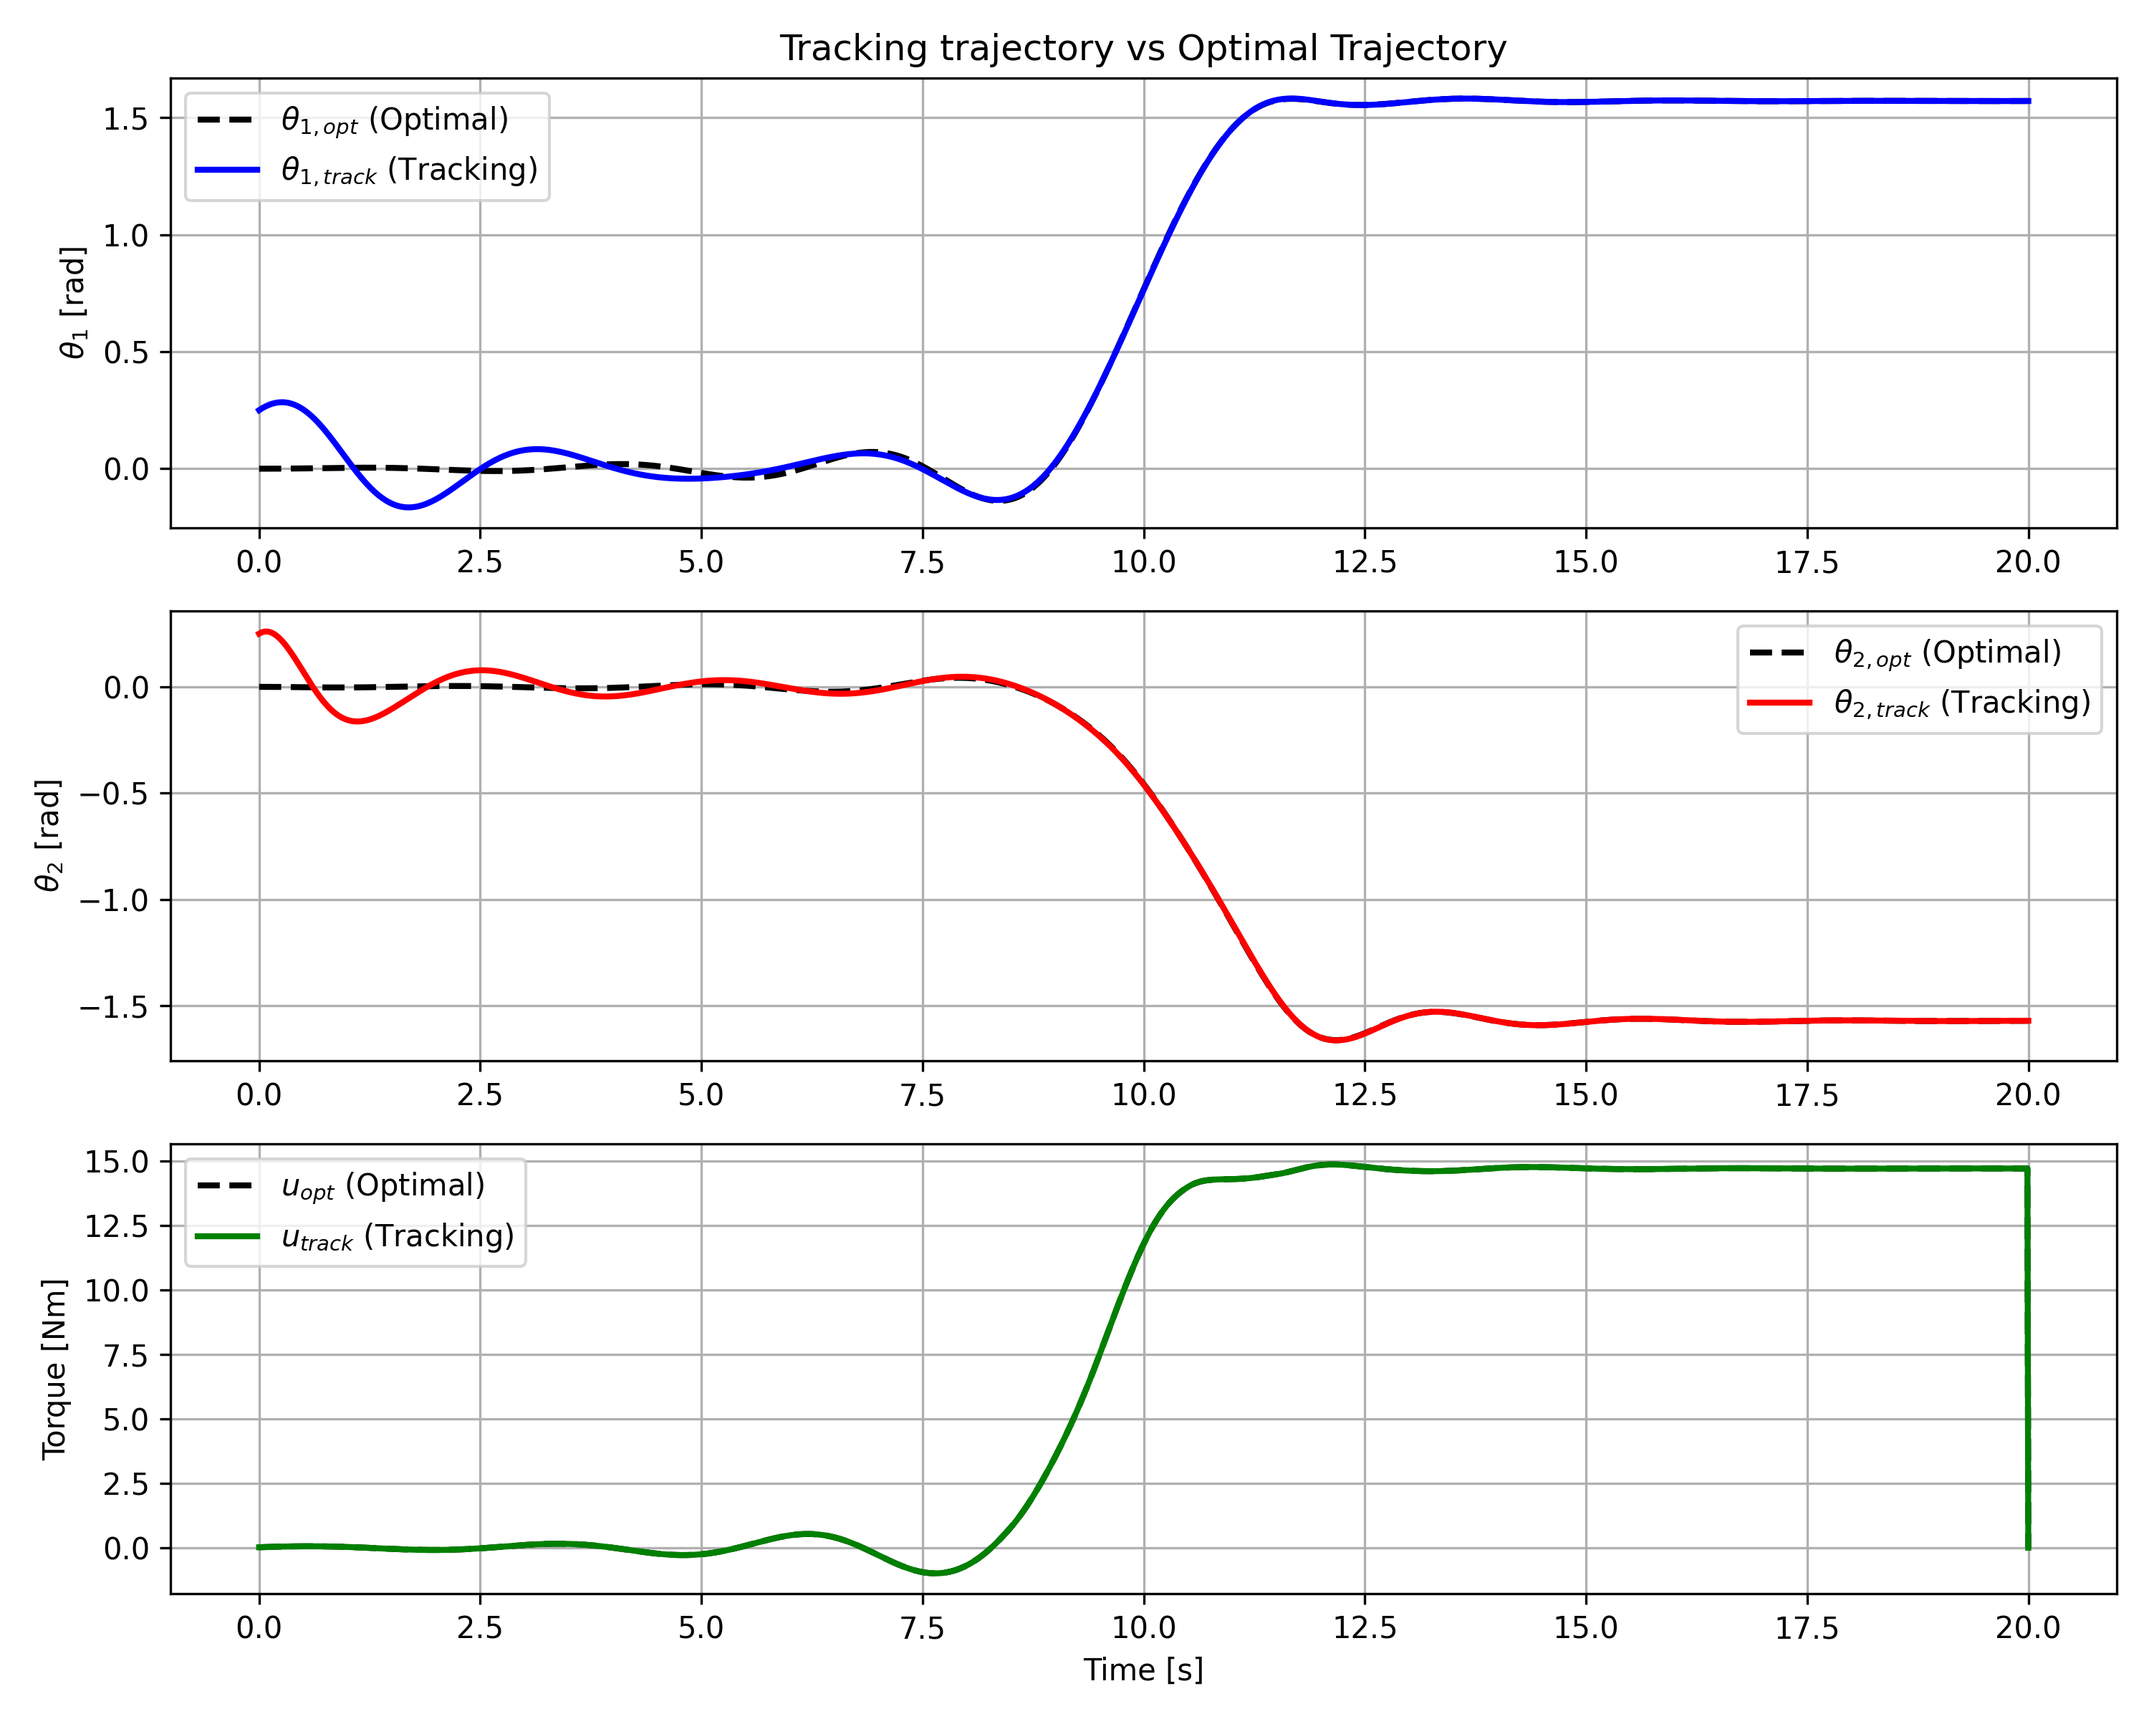
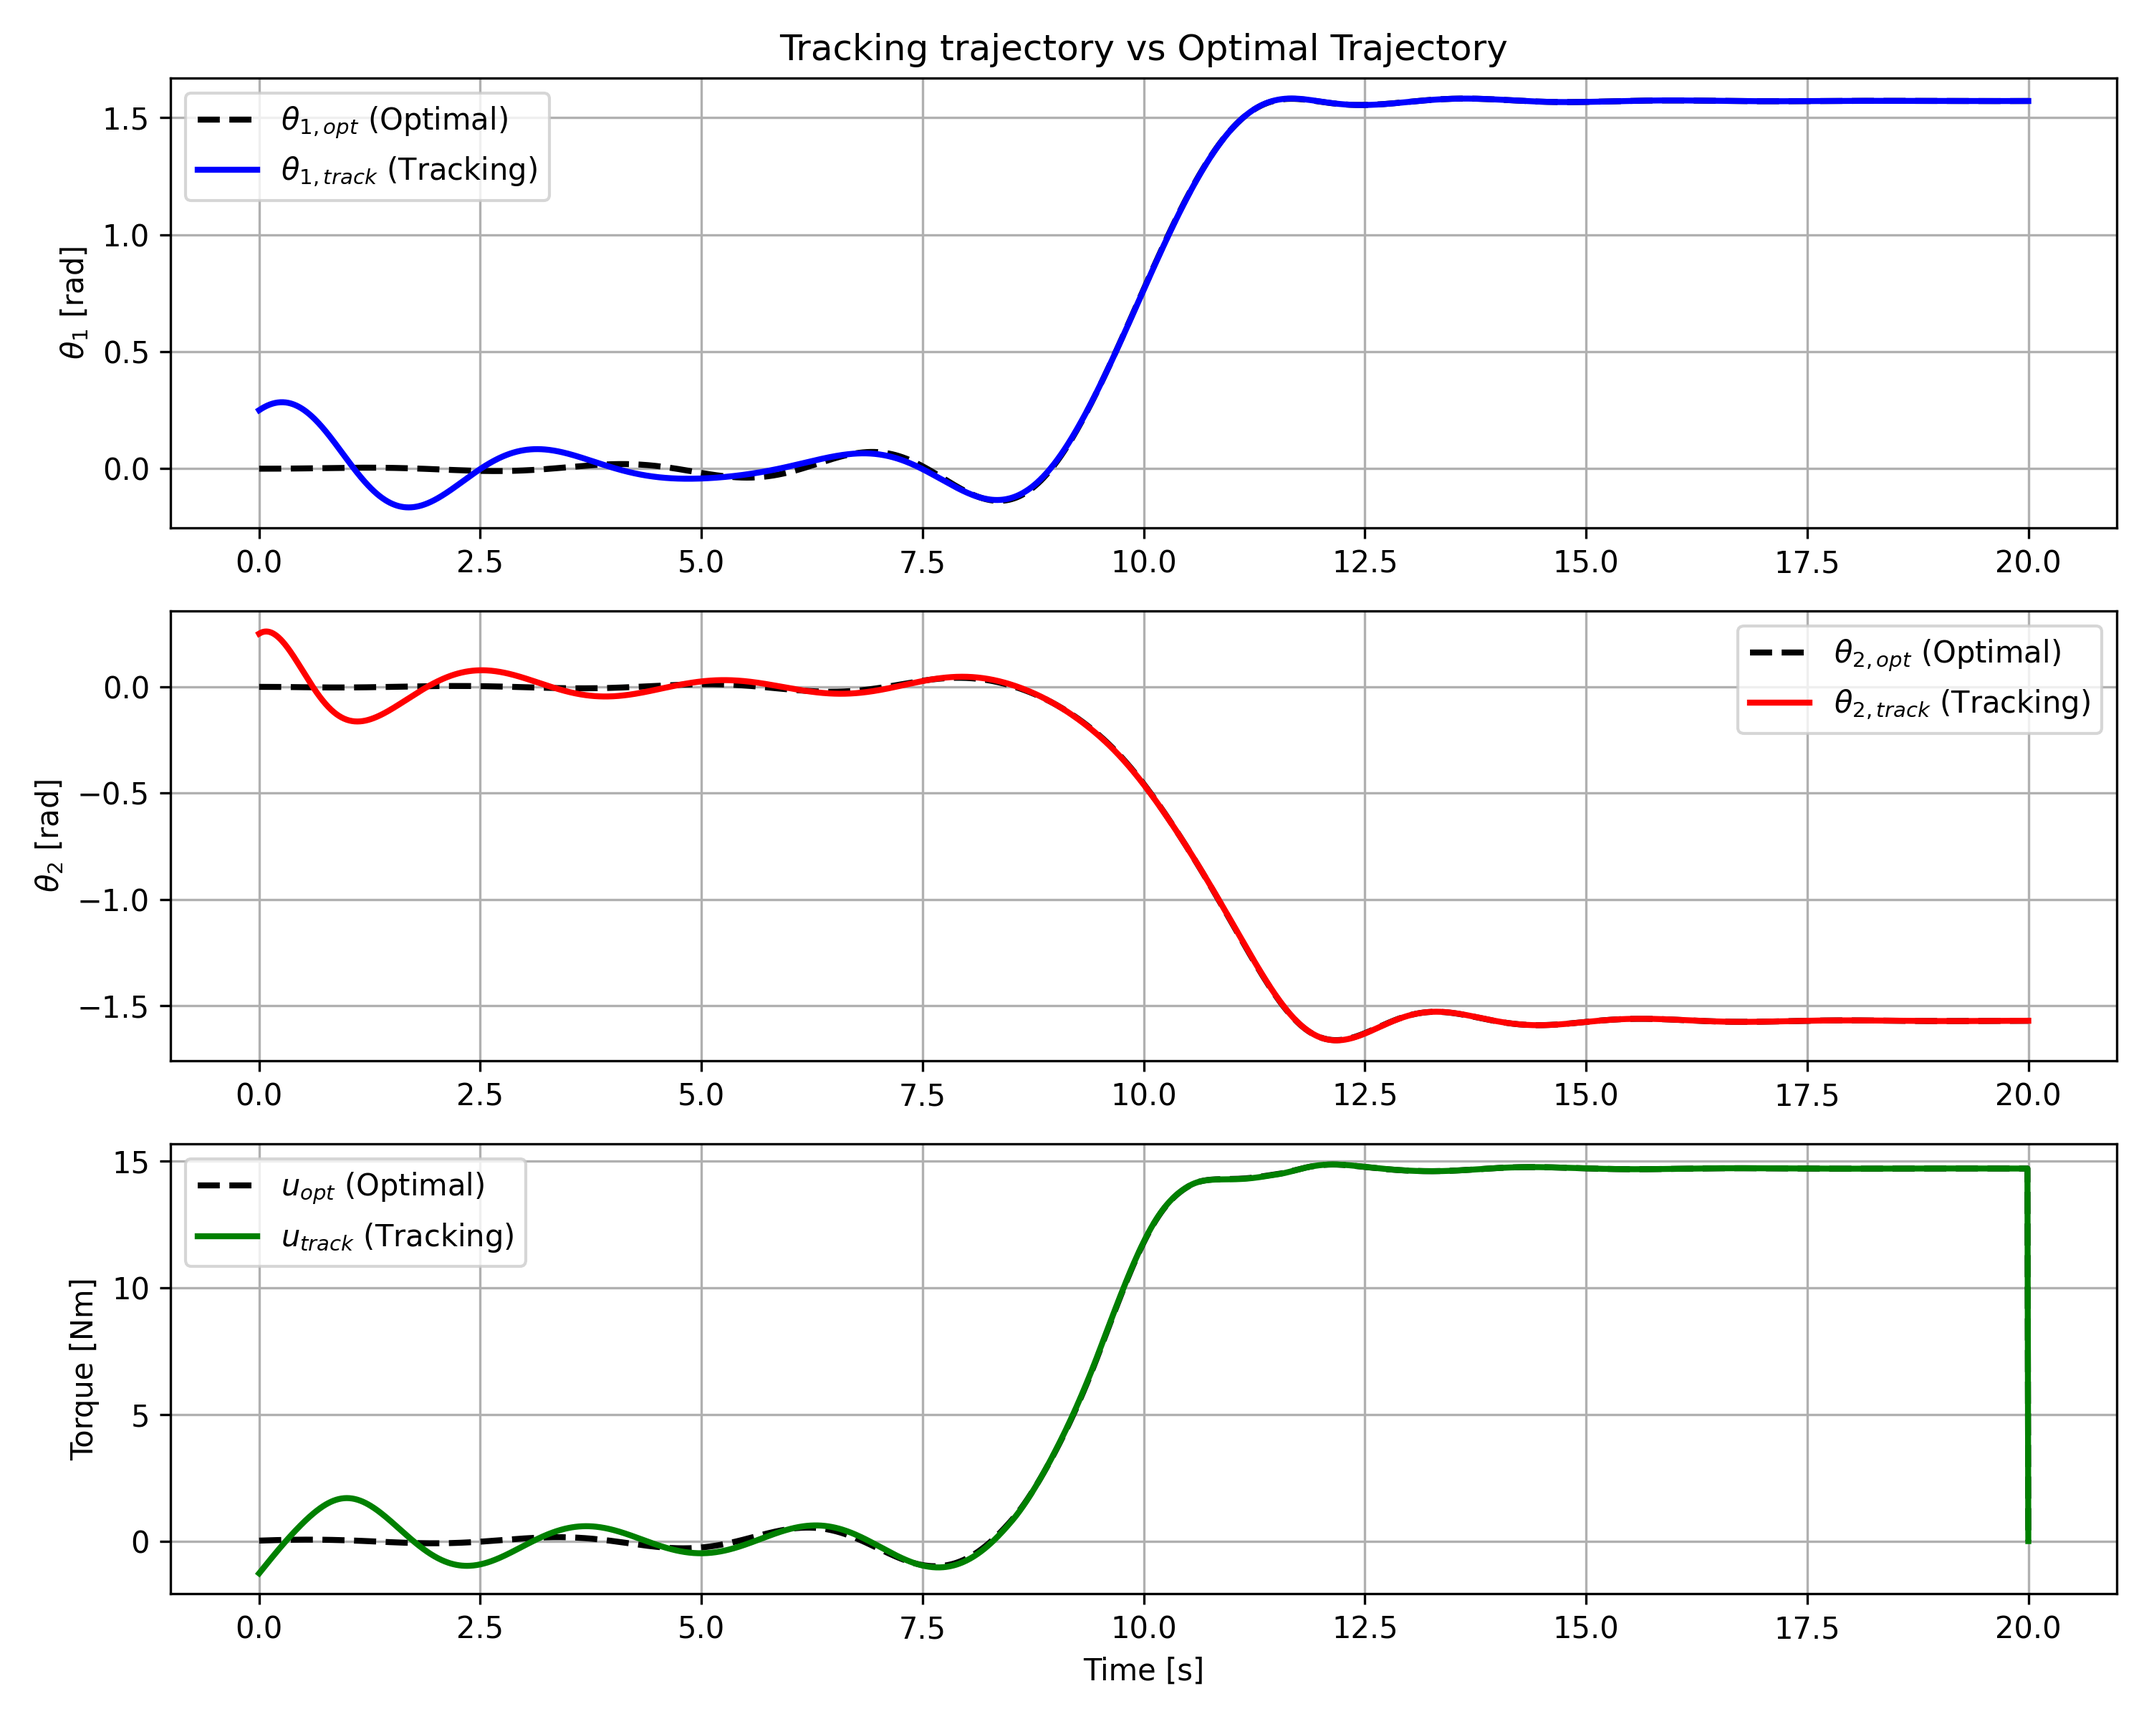
solver4 e main4 tux da controllare

Changed region(s): [[0.062, 0.7812, 0.527, 0.9375], [0.0, 0.75, 0.093, 0.8438], [0.031, 0.6562, 0.062, 0.6875]]

diff --git a/main4.py b/main4.py
@@ -1,0 +1,247 @@
+# Optimal Control and Reinforcement Learning Project 2025-2026
+# Group 23: Alessandro Binci, Alessandro Tampieri, Lorenzo Tucci
+# Problem 2 with set of parameters 1
+
+import sys
+import os
+
+### --- ADDED TO USE SRC FOLDER --- ###
+# In this way we obtain tha path of the current folder
+current_dir = os.path.dirname(os.path.abspath(__file__))
+# We build the path to 'src' folder
+src_path = os.path.join(current_dir, 'src')
+# Add 'src' folder tho the paths where Python search the modules
+sys.path.append(src_path)
+# Add 'docs/Task2' folder path to store the images
+output_folder = os.path.join(current_dir, 'images', 'Task4bis')
+# If the folder does not exists, create one
+if not os.path.exists(output_folder):
+    print(f"The folder didn't exist, creating folder here:{output_folder}")
+    os.makedirs(output_folder)
+else:
+    print(f"Store images in: {output_folder}")
+
+
+### --- IMPORTS --- ###
+import numpy as np
+import matplotlib.pyplot as plt
+import matplotlib.cm as cm
+import sympy as sp
+import math
+from mpl_toolkits import mplot3d # used for 3D plot
+import cvxpy as cvx
+import signal
+from scipy.optimize import minimize
+from matplotlib.animation import FuncAnimation
+import control 
+import random
+
+import dynamics as dyn
+import equilibrium as eq
+import reference_curve as ref_traj
+import cost as cst
+from ltv_solver_LQR import ltv_LQR
+from solver4 import solver_lin_mpc
+
+
+# Defining final time in seconds
+tf = ref_traj.tf
+
+# Defining the discretization step value
+dt = dyn.dt
+
+# Defining the time-horizon value for MPC (we use a bigger time horizon value, i.e. four times the trajectory duration)
+T_horizon  = int(tf/dt) 
+
+# Defining the time-window size
+T_window = 25
+
+# Defining the time value to avoid index_errors (+10 to be robust)
+T_limit = T_horizon + T_window + 10
+
+# Defining number of states and inputs
+ns = dyn.ns
+ni = dyn.ni
+
+# Defining the optimal trajectory variables
+xx_opt_traj = np.load('optimal_traj_xx.npy')
+uu_opt_traj = np.load('optimal_traj_uu.npy')
+
+# Creiamo array estesi vuoti
+xx_ref_pad = np.zeros((ns, T_limit))
+uu_ref_pad = np.zeros((ni, T_limit))
+
+# Copying original data
+len_data = xx_opt_traj.shape[1]
+xx_ref_pad[:, :len_data] = xx_opt_traj
+uu_ref_pad[:, :len_data] = uu_opt_traj
+
+# Riempiamo la parte finale ripetendo l'ULTIMO valore (Equilibrio)
+for k in range(len_data, T_limit):
+    xx_ref_pad[:, k] = xx_opt_traj[:, -1]
+    uu_ref_pad[:, k] = uu_opt_traj[:, -1]
+
+# Linearize dynamics along the trajectory
+AA_t = np.zeros((ns, ns, T_limit))
+BB_t = np.zeros((ns, ni, T_limit))
+
+
+# Finding the new A and B matrices dependent from the optimal trajectories xx and uu 
+for tt in range(T_limit):
+    x_t = xx_ref_pad[:, tt]
+    u_t = uu_ref_pad[:, tt]
+    AA_t[:, :, tt] = (dyn.dynamics_euler(x_t, u_t)[1]).T
+    BB_t[:, :, tt] = (dyn.dynamics_euler(x_t, u_t)[2]).T
+
+# Define LQ cost matrices
+QQ = np.diag([200, 200, 1, 1])
+RR = np.diag([0.1])
+QQ_final = np.diag([200, 200, 1, 1])
+
+# Defining the input perturbation 
+initial_perturbation = 0.25
+
+xx0_pert = xx_opt_traj[:,0].copy() + initial_perturbation
+
+xx_MPC_track = np.zeros((ns, T_horizon)) # defining x_t
+uu_MPC_track = np.zeros((ni, T_horizon)) # defining u_t
+xx_MPC_track[:, 0] = xx0_pert            # defning the initial condition as perturbed
+
+AA_actual = np.zeros((ns, ns, T_window))
+BB_actual = np.zeros((ns, ni, T_window))
+
+# MPC loop 
+for tt in range(T_horizon-1):
+
+    AA_actual = AA_t[:,:,tt:tt+T_window]
+    BB_actual = BB_t[:,:,tt:tt+T_window]
+    
+    # System evolution - real with MPC
+    xx_mpc_actual = xx_MPC_track[:,tt] # get initial condition
+
+    xx_ref_actual = xx_ref_pad[:, tt]
+    delta_x = xx_mpc_actual - xx_ref_actual
+    # Solve MPC problem - get first input
+    delta_u = solver_lin_mpc(AA_actual, BB_actual, QQ, RR, QQ_final, delta_x, T_window)
+    uu_ref_actual = uu_ref_pad[:, tt]
+    uu_MPC_track[:, tt] = uu_ref_actual + delta_u
+    # Solve MPC problem - apply first input and get x_t+1
+    xx_MPC_track[:,tt+1] = dyn.dynamics_euler(xx_MPC_track[:,tt], uu_MPC_track[:,tt])[0]
+    
+
+# Copying for plotting purposes
+xx_final_mpc = xx_MPC_track.copy()
+uu_final_mpc = uu_MPC_track.copy()
+
+# --- PLOT: Tracking Trajectory vs Optimal Trajectory ---
+# Requirement: "Tracking trajectory and optimal trajectory"
+
+# Temporal axis definition
+# We assume that 'tf' and 'T_horizon' are defined 
+time_axis = np.linspace(0, tf, T_horizon)
+
+# Figure creation
+plt.figure(figsize=(10, 8))
+
+# --- Subplot 1: First State (Theta 1) ---
+plt.subplot(3, 1, 1)
+# Optimal traj. - Black Dashed Line
+plt.plot(time_axis, xx_opt_traj[0, :], 'k--', linewidth=2, label=r'$\theta_{1,opt}$ (Optimal)')
+# Tracking traj. - Solid Colored Line
+plt.plot(time_axis, xx_final_mpc[0, :], 'b-', linewidth=2, label=r'$\theta_{1,track}$ (Tracking)')
+plt.ylabel(r'$\theta_1$ [rad]')
+plt.title('Tracking trajectory vs Optimal Trajectory')
+plt.grid(True)
+plt.legend(loc='best')
+
+# --- Subplot 2: Second State (Theta 2) ---
+plt.subplot(3, 1, 2)
+# Optimal traj.
+plt.plot(time_axis, xx_opt_traj[1, :], 'k--', linewidth=2, label=r'$\theta_{2,opt}$ (Optimal)')
+# Tracking traj.
+plt.plot(time_axis, xx_final_mpc[1, :], 'r-', linewidth=2, label=r'$\theta_{2,track}$ (Tracking)')
+plt.ylabel(r'$\theta_2$ [rad]')
+plt.grid(True)
+plt.legend(loc='best')
+
+# --- Subplot 3: Input ---
+plt.subplot(3, 1, 3)
+# Optimal traj.
+plt.plot(time_axis, uu_opt_traj[0, :], 'k--', linewidth=2, label=r'$u_{opt}$ (Optimal)')
+# Tracking traj.
+plt.plot(time_axis, uu_final_mpc[0, :], 'g-', linewidth=2, label=r'$u_{track}$ (Tracking)')
+plt.ylabel(r'Torque [Nm]')
+plt.xlabel(r'Time [s]')
+plt.grid(True)
+plt.legend(loc='best')
+
+# Optimization of the spaces and storage
+plt.tight_layout()
+
+# Save the image in the correct folder
+plt.savefig(os.path.join(output_folder,'Task3_Tracking_vs_Optimal.png'), dpi=300)
+# Print on screen
+plt.show()
+
+# --- PLOT 1-bis: Tracking Velocities vs Optimal Velocities ---
+# Visualization of the states x3 (Velocity Theta 1) and x4 (Velocity Theta 2)
+
+plt.figure(figsize=(10, 8))
+
+# --- Subplot 1: Third State (x3 - Velocity Theta 1) ---
+plt.subplot(2, 1, 1)
+# Optimal traj. (generally zero)
+plt.plot(time_axis, xx_opt_traj[2, :], 'k--', linewidth=2, label=r'$\dot{\theta}_{1,opt}$ (Optimal)')
+# Tracking traj.
+plt.plot(time_axis, xx_final_mpc[2, :], 'b-', linewidth=2, label=r'$\dot{\theta}_{1,track}$ (Tracking)')
+plt.ylabel(r'$\dot{\theta}_1$ [rad/s]')
+plt.title('Tracking velocities vs Optimal Velocities')
+plt.grid(True)
+plt.legend(loc='best')
+
+# --- Subplot 2: Fourth State (x4 - Velocity Theta 2) ---
+plt.subplot(2, 1, 2)
+# Optimal traj. (generally zero)
+plt.plot(time_axis, xx_opt_traj[3, :], 'k--', linewidth=2, label=r'$\dot{\theta}_{2,opt}$ (Optimal)')
+# Tracking traj.
+plt.plot(time_axis, xx_final_mpc[3, :], 'r-', linewidth=2, label=r'$\dot{\theta}_{2,track}$ (Tracking)')
+plt.ylabel(r'$\dot{\theta}_2$ [rad/s]')
+plt.xlabel(r'Time [s]')
+plt.grid(True)
+plt.legend(loc='best')
+
+plt.tight_layout()
+plt.savefig(os.path.join(output_folder,'Task3_Velocities.png'), dpi=300) # Save for the report
+plt.show()
+
+
+
+# Plot tracking error for each state
+
+state_labels = ["θ1", "θ2", r"$\dot{\theta}_1$", r"$\dot{\theta}_2$"]
+
+for i, label in enumerate(state_labels):
+    plt.figure(figsize=(8, 5))
+    plt.plot(time_axis, np.abs(xx_final_mpc[i, :] - xx_opt_traj[i, :]), label=f"Tracking Error in {label}")
+    plt.title(f"Tracking Error in {label}")
+    plt.xlabel("time [s]")
+    plt.ylabel(f"Error in {label}")
+    plt.grid()
+    plt.legend()
+    plot_name = f"task3_{label.replace('$', '').replace('\\', '').replace('.', '').replace('{', '').replace('}', '').replace('_', '').lower()}_tracking_error.png"
+    plt.savefig(os.path.join(output_folder,plot_name), dpi=300) # Save for the report
+    print(plot_name)
+    plt.show()
+
+# Plot tracking error for input
+input_tracking_error = np.abs(uu_final_mpc - uu_opt_traj)
+plt.figure(figsize=(8, 5))
+plt.plot(time_axis, input_tracking_error[0, :], label="Tracking Error in Input (u)")
+plt.title("Tracking Error in Input (u)")
+plt.xlabel("time [s]")
+plt.ylabel("Error in u")
+plt.grid()
+plt.legend()
+plt.savefig(os.path.join(output_folder,'Task3_Input_TrackError.png'), dpi=300) # Save for the report
+
+plt.show()

diff --git a/solver4.py b/solver4.py
@@ -1,0 +1,67 @@
+# Optimal Control and Reinforcement Learning Project 2025-2026
+# Group 23: Alessandro Binci, Alessandro Tampieri, Lorenzo Tucci
+# Problem 2 with set of parameters 1
+
+import numpy as np
+import casadi as ca
+
+def solver_lin_mpc(AA, BB, QQ, RR, QQf, xxt, T_pred, ipopt_opts=None):
+
+    # Converting the 2D matrices
+    QQ = ca.DM(QQ)
+    RR = ca.DM(RR)
+    QQf = ca.DM(QQf)
+
+    # Assicuriamoci che lo stato iniziale sia un vettore piatto
+    delta_x_init = np.array(xxt).reshape(-1)
+
+    ns, ni = BB.shape[0], BB.shape[1]
+
+    opti = ca.Opti()
+    d_xx = opti.variable(ns, T_pred)
+    d_uu = opti.variable(ni, T_pred)
+
+    cost = 0
+    for tt in range(T_pred-1):
+        dx_t = d_xx[:, tt]
+        du_t = d_uu[:, tt]
+        cost += ca.mtimes([dx_t.T, QQ, dx_t]) + ca.mtimes([du_t.T, RR, du_t])
+        A_t = ca.DM(AA[:,:,tt])
+        B_t = ca.DM(BB[:,:,tt])       
+        # dynamics
+        opti.subject_to(d_xx[:, tt + 1] == A_t @ dx_t + B_t @ du_t)
+
+        #opti.subject_to(ut <= umax)
+        #opti.subject_to(ut >= umin)
+        # state bounds on first two states (assuming ns >= 2)
+        #if ns >= 1:
+            #opti.subject_to(X[0, tt] <= x1_max)
+            #opti.subject_to(X[0, tt] >= x1_min)
+        #if ns >= 2:
+            #opti.subject_to(X[1, tt] <= x2_max)
+            #opti.subject_to(X[1, tt] >= x2_min)
+
+    # terminal cost and initial condition
+    cost += ca.mtimes([d_xx[:, T_pred - 1].T, QQf, d_xx[:, T_pred - 1]])
+    opti.subject_to(d_xx[:, 0] == ca.DM(xxt))
+
+    opti.minimize(cost)
+    
+    # solver options
+    if ipopt_opts is None:
+        ipopt_opts = {"ipopt.print_level": 0, "print_time": 0, "ipopt.max_iter": 1000}
+    opti.solver("ipopt", ipopt_opts)
+
+    try:
+        sol = opti.solve()
+    
+        return sol.value(d_uu[:,0])
+        
+    except RuntimeError:
+        # Fallback in caso di fallimento
+        print("solver_linear_mpc: solver failed")
+        return np.zeros(ni)
+
+
+
+
